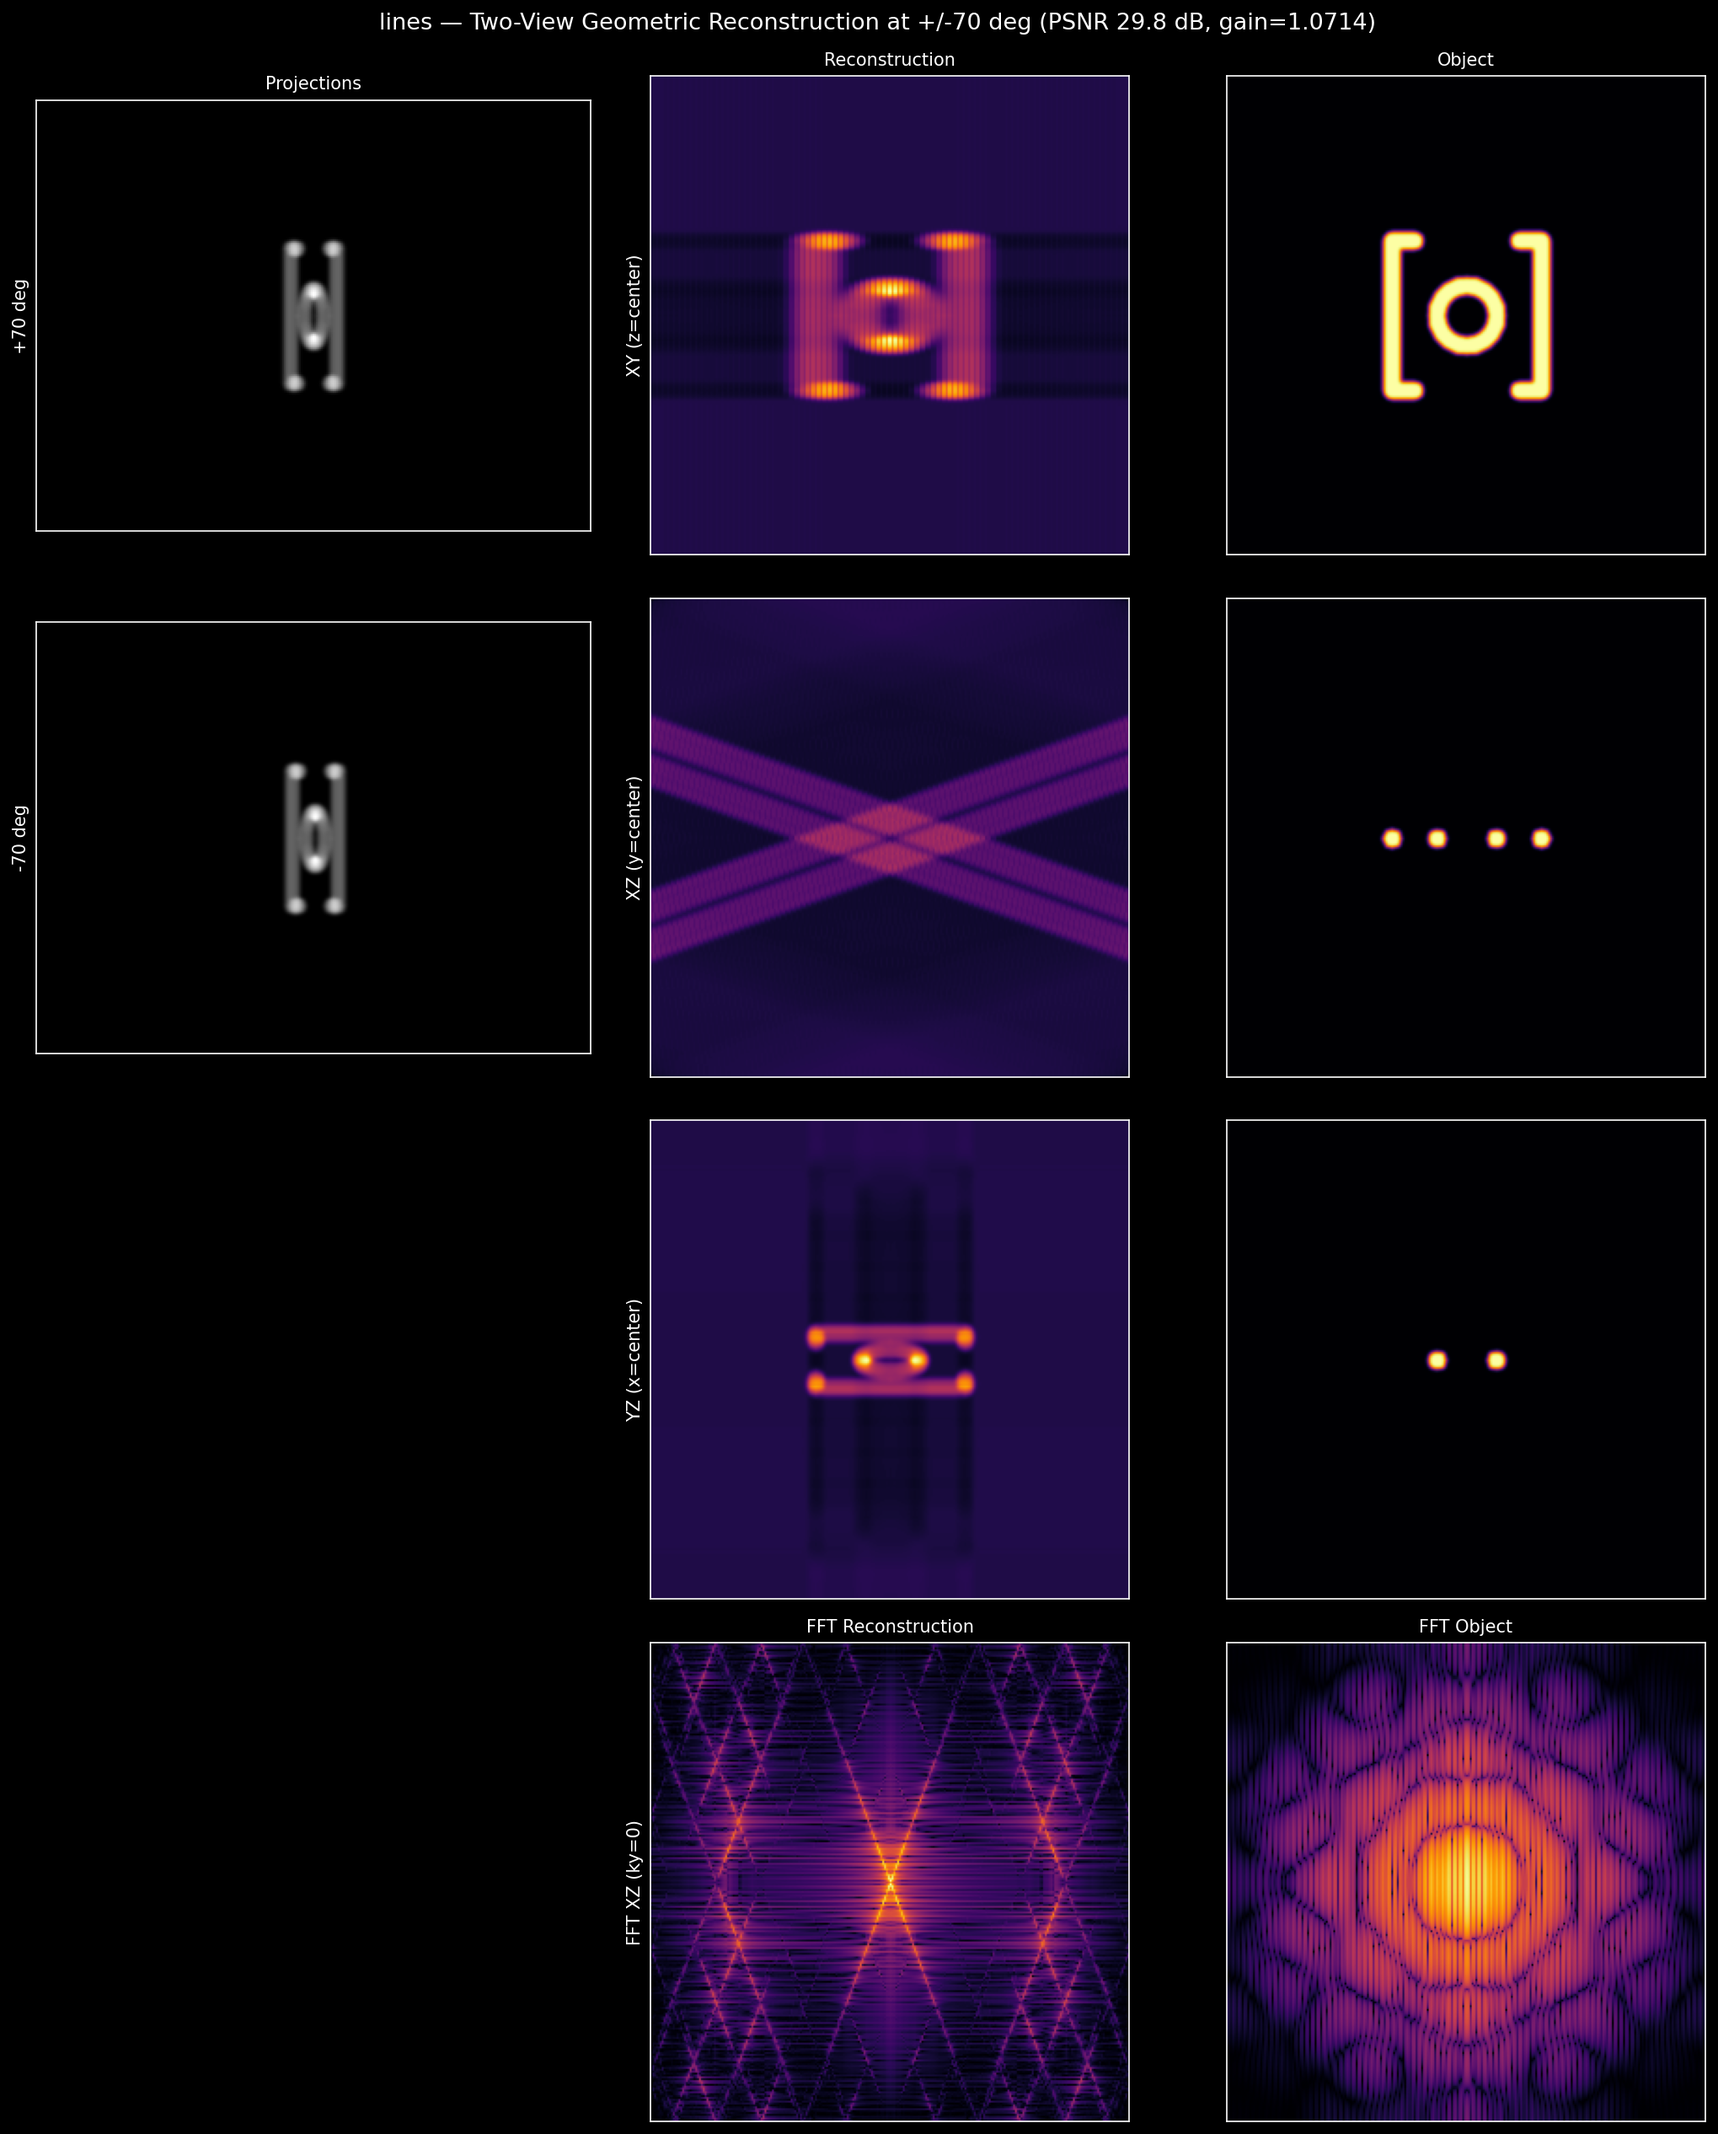
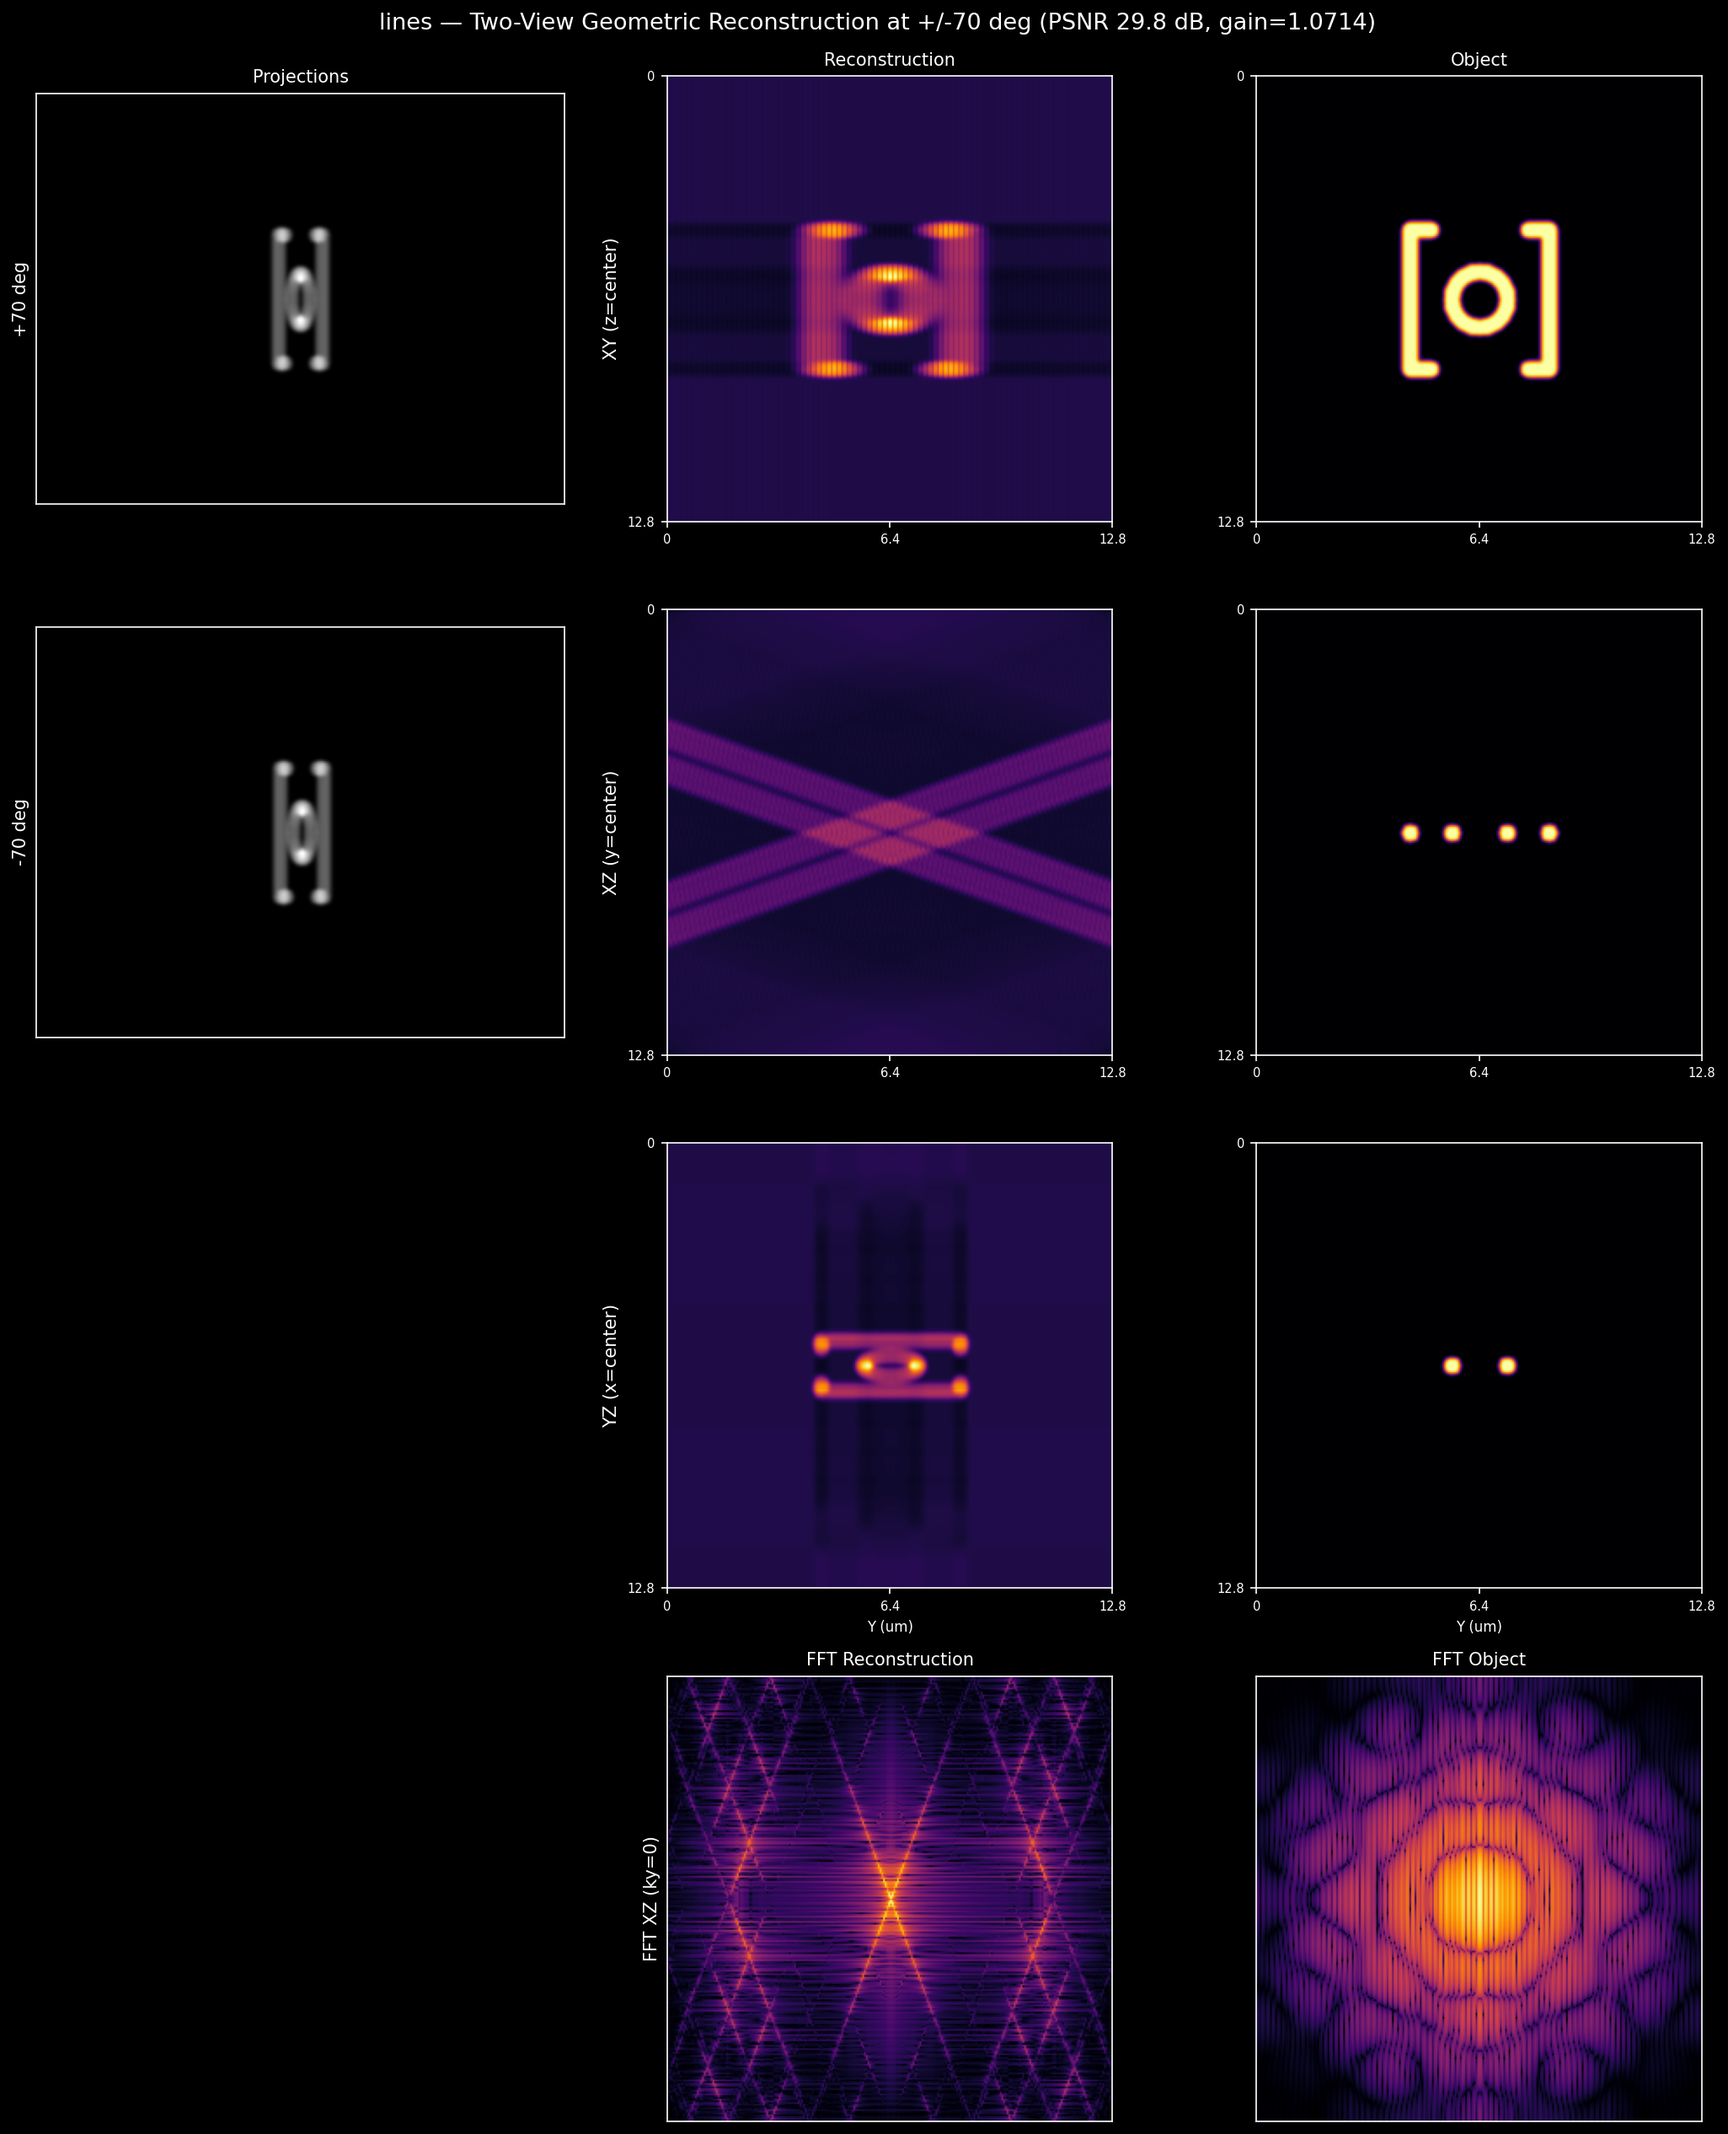
updated plots

diff --git a/docs/examples/demos/projection_modeling/geometric_two_projections_sweep.py b/docs/examples/demos/projection_modeling/geometric_two_projections_sweep.py
@@ -224,6 +224,18 @@ def plot_optimal_reconstruction(sample, obj, best_theta, reg, niter, out_dir):
     ft_obj_sl = _ortho(ft_obj)
     views = ["XY (z=center)", "XZ (y=center)", "YZ (x=center)"]
 
+    # Physical extent in micrometers for axis labeling
+    nz, ny, nx = ZYX_SHAPE
+    phys_z = nz * VOXEL_SIZE  # um
+    phys_y = ny * VOXEL_SIZE
+    phys_x = nx * VOXEL_SIZE
+    # extent = [left, right, bottom, top] for imshow with origin='upper'
+    ext_xy = [0, phys_x, phys_y, 0]  # cols=X, rows=Y
+    ext_xz = [0, phys_x, phys_z, 0]  # cols=X, rows=Z
+    ext_yz = [0, phys_y, phys_z, 0]  # cols=Y, rows=Z
+    vol_extents = [ext_xy, ext_xz, ext_yz]
+    axis_labels = [("X", "Y"), ("X", "Z"), ("Y", "Z")]
+
     fig, axes = plt.subplots(4, 3, figsize=(14, 17))
     fig.suptitle(
         f"{sample} — Two-View Geometric Reconstruction at +/-{best_theta} deg "
@@ -237,25 +249,38 @@ def plot_optimal_reconstruction(sample, obj, best_theta, reg, niter, out_dir):
     # Row 0 (XY): projection at +theta
     axes[0, 0].imshow(proj_pos, cmap="gray", vmin=proj_vmin, vmax=proj_vmax, aspect="equal")
     _style_ax(axes[0, 0], title=col_titles[0], ylabel=f"+{best_theta} deg")
-    axes[0, 1].imshow(rec_sl[0], cmap="inferno", vmin=rec_vmin, vmax=rec_vmax, aspect="equal")
+    axes[0, 1].imshow(rec_sl[0], cmap="inferno", vmin=rec_vmin, vmax=rec_vmax, aspect="equal", extent=ext_xy)
     _style_ax(axes[0, 1], title=col_titles[1], ylabel=views[0])
-    axes[0, 2].imshow(obj_sl[0], cmap="inferno", vmin=obj_vmin, vmax=obj_vmax, aspect="equal")
+    axes[0, 2].imshow(obj_sl[0], cmap="inferno", vmin=obj_vmin, vmax=obj_vmax, aspect="equal", extent=ext_xy)
     _style_ax(axes[0, 2], title=col_titles[2])
 
     # Row 1 (XZ): projection at -theta
     axes[1, 0].imshow(proj_neg, cmap="gray", vmin=proj_vmin, vmax=proj_vmax, aspect="equal")
     _style_ax(axes[1, 0], ylabel=f"-{best_theta} deg")
-    axes[1, 1].imshow(rec_sl[1], cmap="inferno", vmin=rec_vmin, vmax=rec_vmax, aspect="equal")
+    axes[1, 1].imshow(rec_sl[1], cmap="inferno", vmin=rec_vmin, vmax=rec_vmax, aspect="equal", extent=ext_xz)
     _style_ax(axes[1, 1], ylabel=views[1])
-    axes[1, 2].imshow(obj_sl[1], cmap="inferno", vmin=obj_vmin, vmax=obj_vmax, aspect="equal")
+    axes[1, 2].imshow(obj_sl[1], cmap="inferno", vmin=obj_vmin, vmax=obj_vmax, aspect="equal", extent=ext_xz)
     _style_ax(axes[1, 2])
 
     # Row 2 (YZ): blank projection slot
     axes[2, 0].axis("off")
-    axes[2, 1].imshow(rec_sl[2], cmap="inferno", vmin=rec_vmin, vmax=rec_vmax, aspect="equal")
+    axes[2, 1].imshow(rec_sl[2], cmap="inferno", vmin=rec_vmin, vmax=rec_vmax, aspect="equal", extent=ext_yz)
     _style_ax(axes[2, 1], ylabel=views[2])
-    axes[2, 2].imshow(obj_sl[2], cmap="inferno", vmin=obj_vmin, vmax=obj_vmax, aspect="equal")
+    axes[2, 2].imshow(obj_sl[2], cmap="inferno", vmin=obj_vmin, vmax=obj_vmax, aspect="equal", extent=ext_yz)
     _style_ax(axes[2, 2])
+
+    # Add scale ticks (um) to reconstruction and object columns
+    for row in range(3):
+        ext = vol_extents[row]
+        xlbl, ylbl = axis_labels[row]
+        for col in [1, 2]:
+            ax = axes[row, col]
+            ax.set_xticks([0, ext[1] / 2, ext[1]])
+            ax.set_xticklabels([f"0", f"{ext[1]/2:.1f}", f"{ext[1]:.1f}"], fontsize=7)
+            ax.set_yticks([0, ext[3] if ext[3] > 0 else ext[2]])
+            ax.set_yticklabels(["0", f"{max(ext[2], ext[3]):.1f}"], fontsize=7)
+            if row == 2:
+                ax.set_xlabel(f"{xlbl} (um)", fontsize=8)
 
     # Row 3: FFT XZ slices (ky=0)
     axes[3, 0].axis("off")

diff --git a/docs/examples/demos/projection_modeling/projection_reconstruction_results.md b/docs/examples/demos/projection_modeling/projection_reconstruction_results.md
@@ -90,6 +90,37 @@ the sparse point bead (3.6 dB) and largest for the extended Shepp-Logan
 (5.2 dB). Two projections sample only two Fourier slices; the XZ FFT panels
 show energy along two narrow bands with the rest near zero.
 
+<details>
+<summary>Note: apparent aspect-ratio distortion at oblique projection angles</summary>
+
+The Siddon operator projects in the ZX plane; each Y row is processed
+independently. The Y extent of the reconstruction therefore matches the
+object exactly at all angles (FWHM 231 vs 233 voxels for Shepp-Logan).
+The X extent, however, depends on angular coverage. Two Fourier slices at
+±theta leave large gaps along kx; the CG solver fills these gaps with
+ringing that expands the effective X extent.
+
+| Angle | Y FWHM | X FWHM | Y/X  |
+|-------|--------|--------|------|
+| Object | 233 | 175 | 1.33 |
+| ±10 deg | 231 | 175 | 1.32 |
+| ±45 deg | 231 | 255 | 0.91 |
+| ±70 deg | 231 | 255 | 0.91 |
+
+At ±10 deg (nearly vertical rays) the Fourier slices straddle the kx axis,
+preserving X resolution. At ±45 or ±70 deg the slices tilt away from kx,
+and the X FWHM expands to fill the volume. The Shepp-Logan ellipse thus
+appears to change from taller-than-wide (Y/X = 1.33) to wider-than-tall
+(Y/X ≈ 0.9), giving the visual impression of a 90-degree rotation. The
+wave-optical two-view reconstruction (Section 4) avoids this effect because
+its optimal angle for the lines phantom is ±10 deg and the OTF bandwidth
+further suppresses high-frequency ringing.
+
+This is an inherent resolution anisotropy of two-view tomography, not a
+coordinate error.
+
+</details>
+
 ---
 
 ## 3. Limited-Angle Tomography with Blur (29 projections, OTF)
